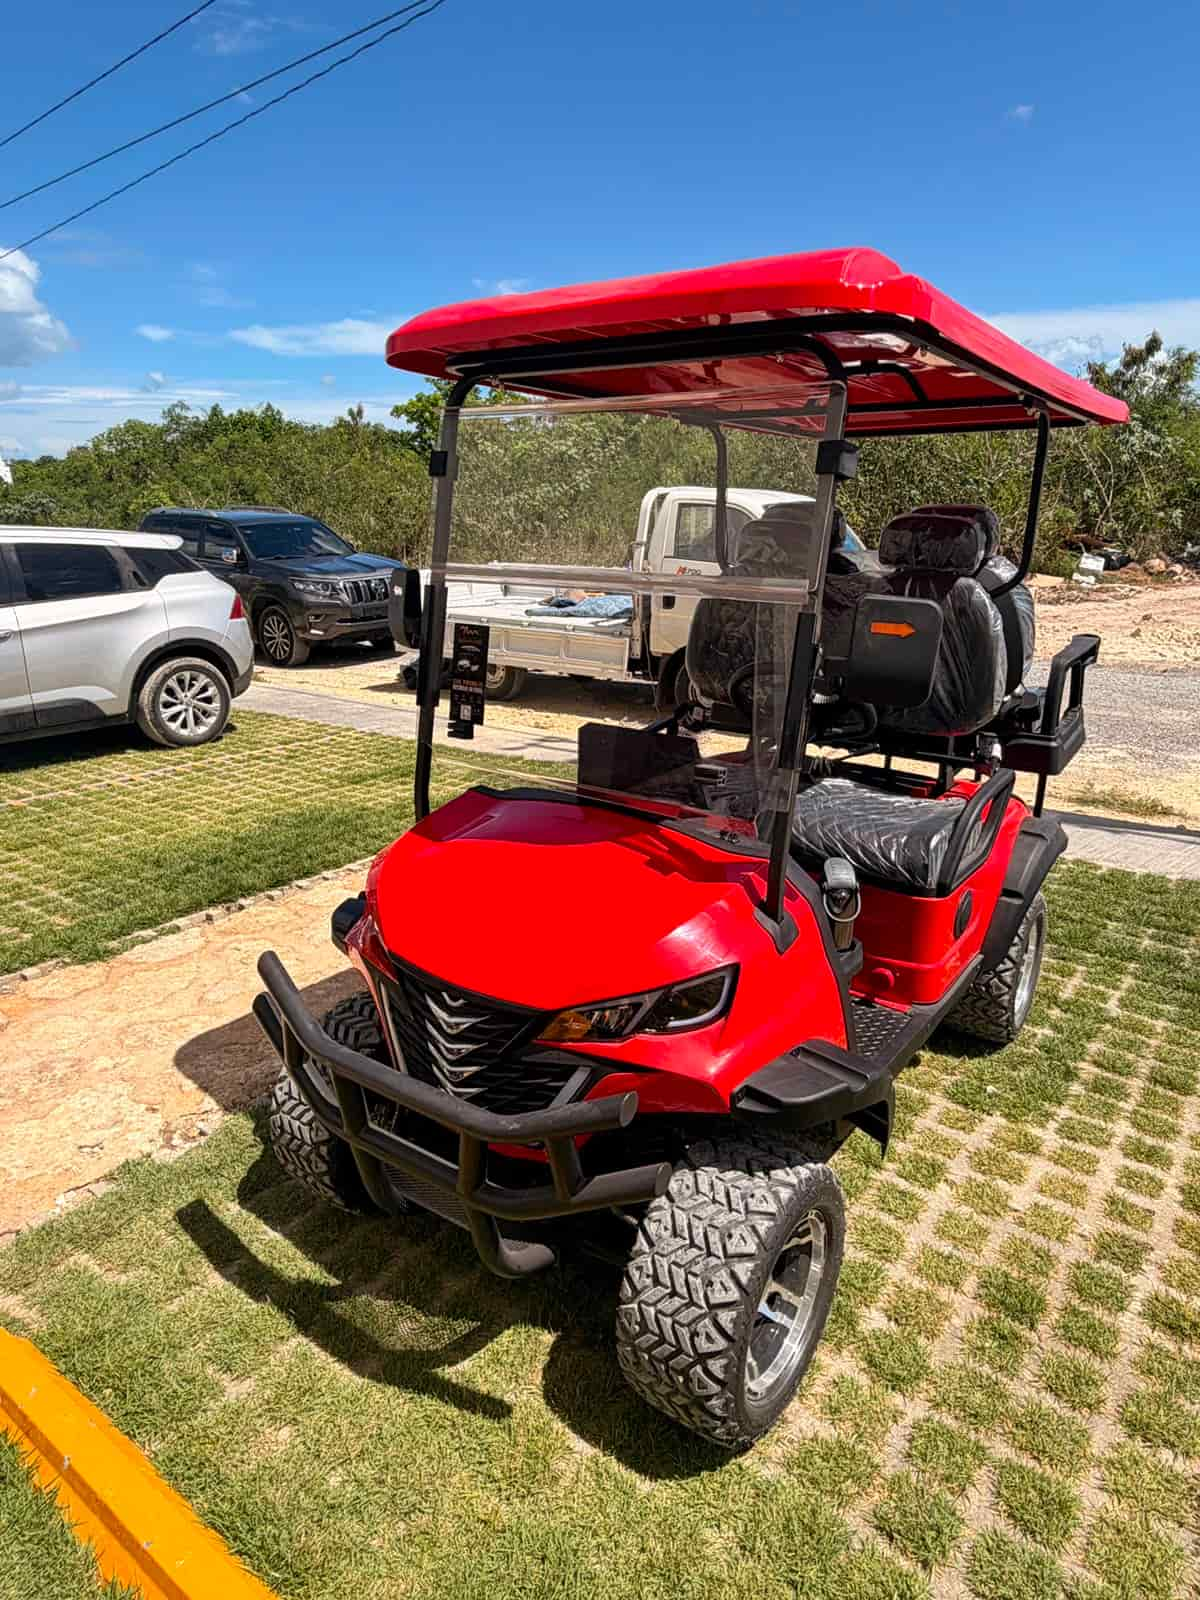
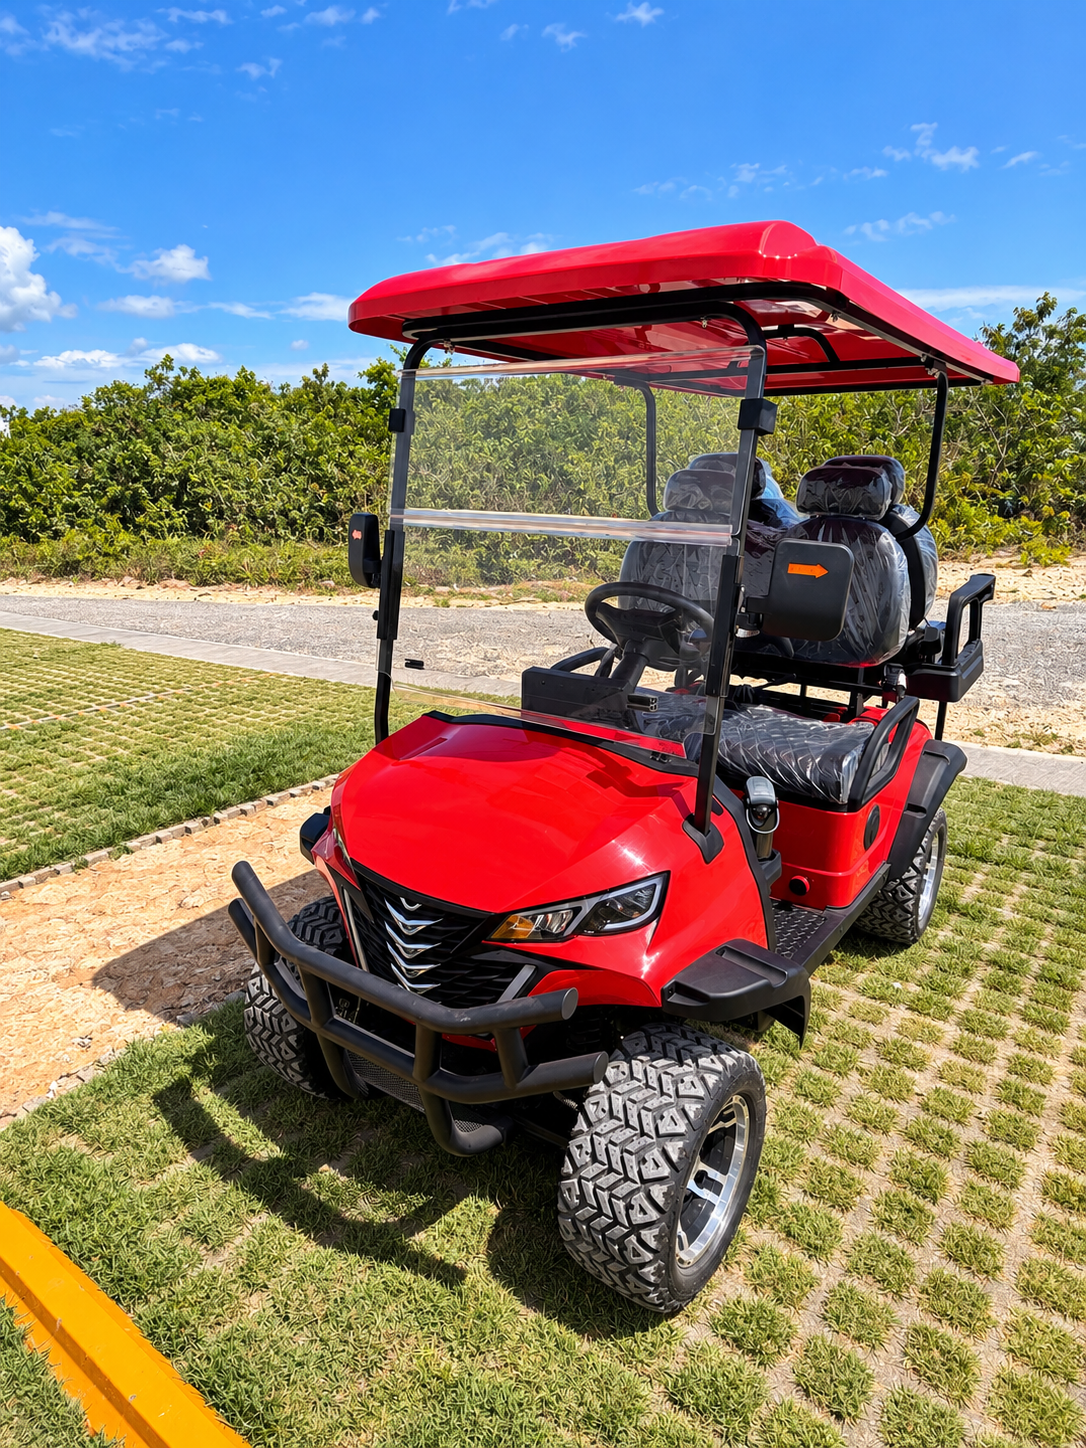
Aggiorna foto modello VY-C2+2

diff --git a/src/App.js b/src/App.js
@@ -3668,10 +3668,10 @@ export default function App() {
         <div style={{background:C.card,border:"1px solid #222",borderRadius:18,padding:"28px 24px",marginBottom:24}}>
           <div style={{display:"flex",gap:12,flexWrap:"wrap",justifyContent:"center",marginBottom:22}}>
             <div style={{flex:"1 1 220px",maxWidth:280,borderRadius:14,overflow:"hidden",background:C.surface}}>
-              <Img k="readyVYC1a" eager={true} style={{width:"100%",height:200,objectFit:"cover"}}/>
+              <img src={IMGS.readyVYC1a} alt="" loading="eager" decoding="async" style={{width:"100%",height:200,objectFit:"cover",display:"block"}}/>
             </div>
             <div style={{flex:"1 1 220px",maxWidth:280,borderRadius:14,overflow:"hidden",background:C.surface}}>
-              <Img k="readyVYC1" style={{width:"100%",height:200,objectFit:"cover"}}/>
+              <img src={IMGS.readyVYC1} alt="" loading="lazy" decoding="async" style={{width:"100%",height:200,objectFit:"cover",display:"block"}}/>
             </div>
           </div>
 
